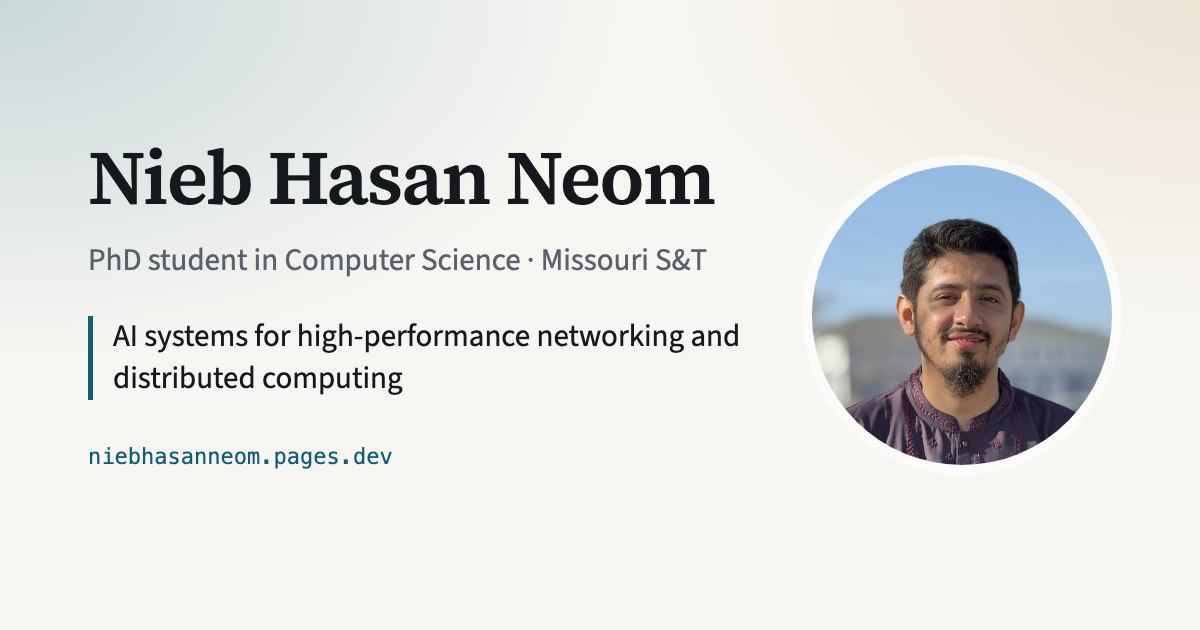
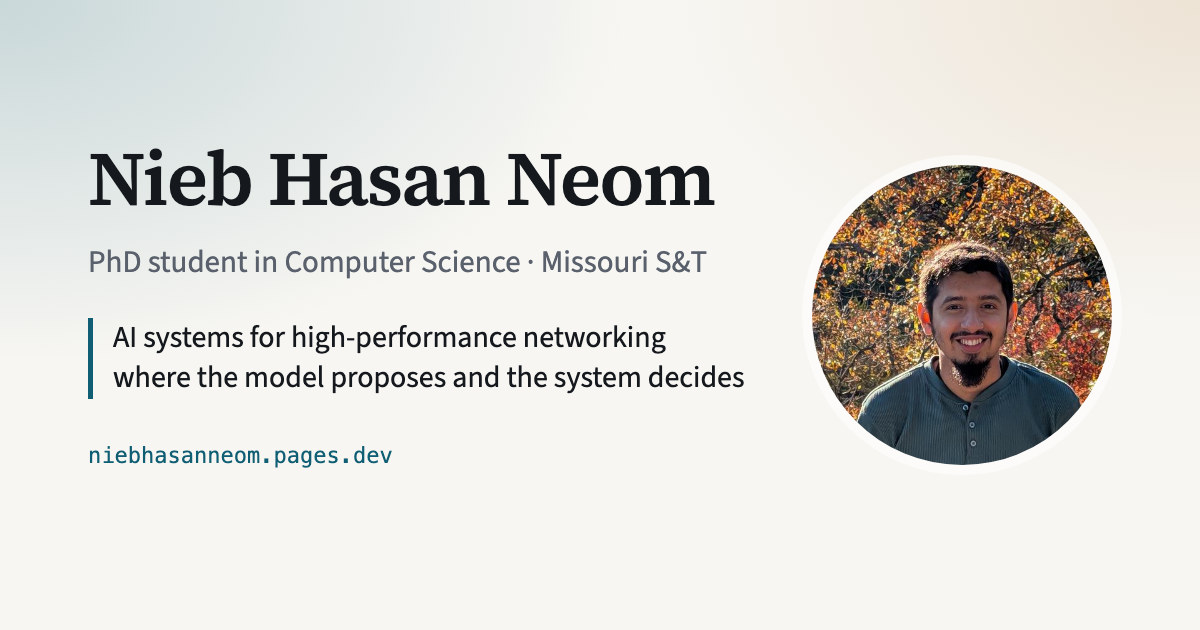
Add the ICRM volunteer role, a new portrait, and clearer thumbnails
Add volunteering at the ICRM Distribution Center of the Islamic Center of
Rolla, Missouri, from the résumé, linked to rollamasjid.org. The printed
CV now lists current service only so it stays on one page.

Replace the portrait with the owner's chosen photo, regenerate the social
preview image around it, and swap the About gallery's Ha Ha Tonka photo for
another taken at the same overlook so the portrait does not appear twice.

Redraw two home-page thumbnails: NetBench now shows HPN-QA's 242
questions split by measured difficulty, drawn to scale, and the Card
Personalization card fits its EMV and GlobalPlatform labels.

The CV print test now waits for web fonts, since the wider fallback font
could push the page onto a second sheet.

diff --git a/apps/site/tests/site.spec.ts b/apps/site/tests/site.spec.ts
@@ -211,6 +211,9 @@ test("CV offers the résumé and prints to one page", async ({ page }, info) => 
     "PDF output needs desktop Chromium",
   );
   await page.emulateMedia({ media: "print" });
+  // Print only after the web fonts load: the fallback font is wider and would
+  // push the CV onto a second page.
+  await page.evaluate(() => document.fonts.ready);
   await expect(
     page.getByRole("heading", { name: "Nieb Hasan Neom" }),
   ).toBeVisible();

diff --git a/apps/site/src/content/refs.ts b/apps/site/src/content/refs.ts
@@ -12,6 +12,7 @@ export const refs = {
   kuet: "https://www.kuet.ac.bd/",
   konaSoftwareLab: "https://www.konasl.com/",
   konaI: "https://www.konai.com/",
+  icrm: "https://www.rollamasjid.org/",
 
   // Venues and testbeds
   works26: "https://works-workshop.org/",
